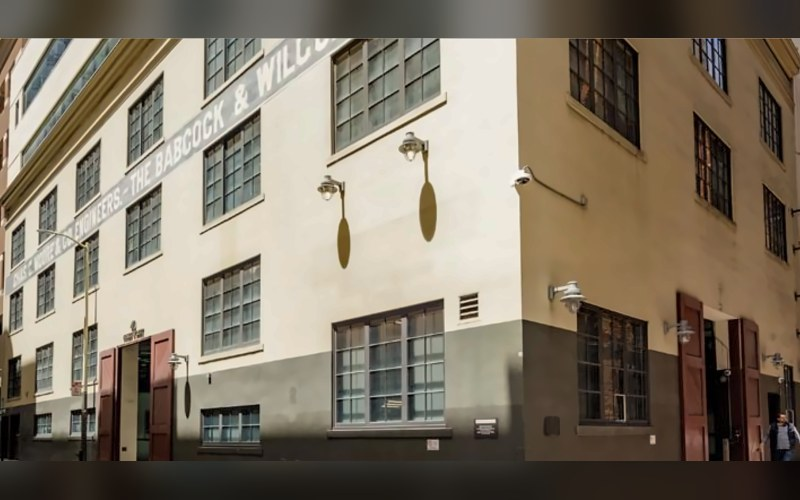
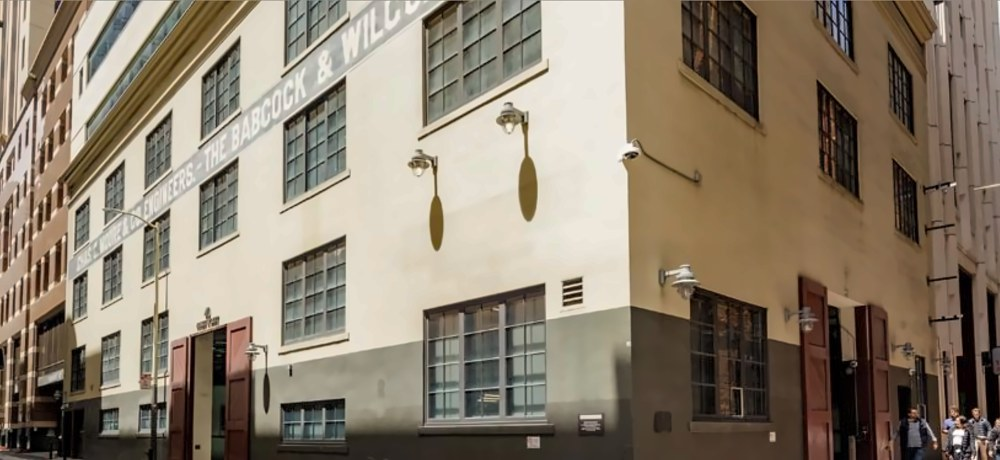
40 Jessie Street: wider, unpadded photo shown full-frame on its card
Remove blurred letterbox fill; show the wide panorama uncropped
(object-fit: contain, top-aligned) so the whole building is visible.

diff --git a/index.html b/index.html
@@ -356,6 +356,8 @@
             transition: filter 0.4s;
         }
         .deal-card:hover .deal-photo { filter: grayscale(0%); }
+        /* Wide panoramic photo: show full frame, top-aligned with neighbors, no crop */
+        .deal-photo.deal-photo--wide { object-fit: contain; object-position: center top; }
         .deal-badge {
             display: inline-block; font-size: 10px; font-weight: 600;
             letter-spacing: 0.16em; text-transform: uppercase;
@@ -1065,7 +1067,7 @@
             </div>
         </div>
         <div class="deal-card reveal delay-4">
-            <img src="properties/jessie.jpg" alt="40 Jessie Street" class="deal-photo">
+            <img src="properties/jessie.jpg" alt="40 Jessie Street" class="deal-photo deal-photo--wide">
             <span class="deal-badge current">Current</span>
             <div class="deal-name">40 Jessie Street</div>
             <div class="deal-location">San Francisco, CA</div>
